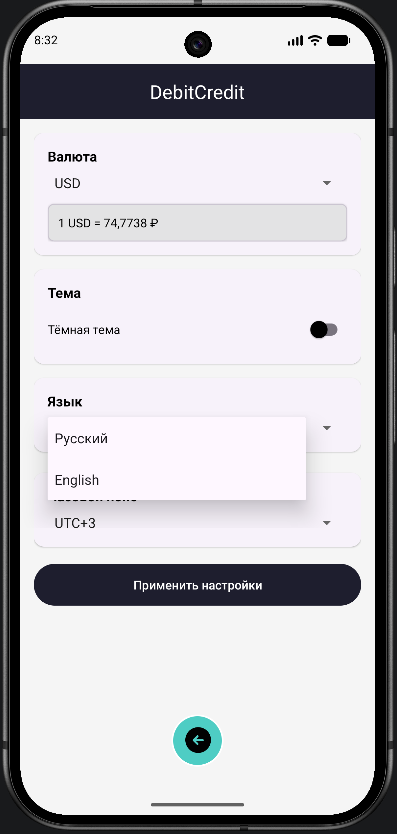
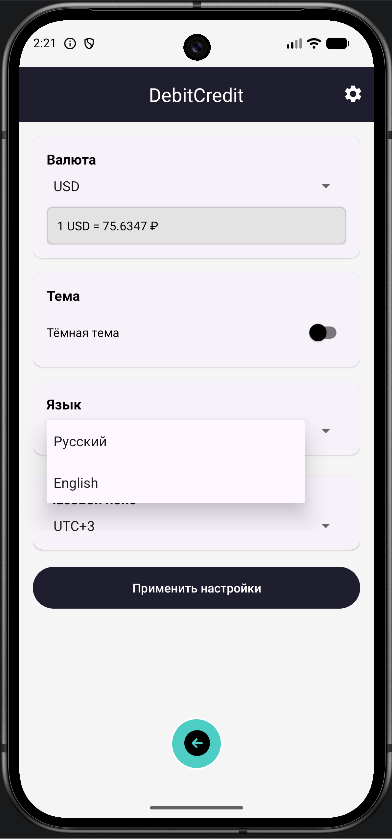
modified

diff --git a/app/src/main/java/ru/github/debitcredit/customview/StatsView.kt b/app/src/main/java/ru/github/debitcredit/customview/StatsView.kt
@@ -3,12 +3,7 @@ package ru.github.debitcredit.customview
 import android.animation.ValueAnimator
 import android.content.Context
 import android.content.res.Configuration
-import android.graphics.Canvas
-import android.graphics.Color
-import android.graphics.Paint
-import android.graphics.PointF
-import android.graphics.RectF
-import android.graphics.SweepGradient
+import android.graphics.*
 import android.util.AttributeSet
 import android.view.View
 import android.view.animation.LinearInterpolator
@@ -31,20 +26,16 @@ class StatsView @JvmOverloads constructor(
     private var progress = 0f
     private var valueAnimator: ValueAnimator? = null
     private var currentRotation = 0f
-    private val dotPaint = Paint(Paint.ANTI_ALIAS_FLAG).apply {
-        style = Paint.Style.FILL
-    }
 
-    // Флаг, определяющий режим отображения (большой или маленький)
+    var showPercentage = false
+
     var isSmallMode = false
         set(value) {
             field = value
             if (value) {
-                // Для маленького режима делаем линии тоньше и шрифт меньше
                 lineWidth = dp(12f).toFloat()
                 fontSize = dp(16f).toFloat()
             } else {
-                // Для большого режима возвращаем нормальные размеры
                 lineWidth = dp(24f).toFloat()
                 fontSize = dp(32f).toFloat()
             }
@@ -86,19 +77,12 @@ class StatsView @JvmOverloads constructor(
     }
 
     private fun getTextColorFromTheme(): Int {
-        // Определяем, темная тема или светлая
         val isNightMode = (resources.configuration.uiMode and Configuration.UI_MODE_NIGHT_MASK) == Configuration.UI_MODE_NIGHT_YES
-
-        return if (isNightMode) {
-            Color.WHITE
-        } else {
-            Color.BLACK
-        }
+        return if (isNightMode) Color.WHITE else Color.BLACK
     }
 
     override fun onConfigurationChanged(newConfig: Configuration?) {
         super.onConfigurationChanged(newConfig)
-        // Обновляем цвет текста при смене темы
         textPaint.color = getTextColorFromTheme()
         invalidate()
     }
@@ -123,7 +107,7 @@ class StatsView @JvmOverloads constructor(
         var startAngle = -90f + currentRotation
 
         // Рисуем сегменты
-        for ((index, category) in data.withIndex()) {
+        for ((_, category) in data.withIndex()) {
             val sweepAngle = 360f * (category.amount / total) * progress
 
             val shader = SweepGradient(
@@ -139,54 +123,74 @@ class StatsView @JvmOverloads constructor(
             startAngle += sweepAngle
         }
 
-        if (isSmallMode) {
-            // Маленький режим: показываем сумму под графиком
-            val totalText = String.format(Locale.US,"%.0f", total)
-
-            // Текст суммы (крупнее)
-            textPaint.textSize = fontSize
-            canvas.drawText("$totalText ₽", center.x, center.y + fontSize / 3, textPaint)
-
-            // Рисуем точку-индикатор сверху (уменьшенную)
-            if (data.isNotEmpty()) {
-                val dotRadius = lineWidth * 0.5f
-                val dotAngle = Math.toRadians((-90f + currentRotation).toDouble())
-                val dotX = center.x + radius * cos(dotAngle).toFloat()
-                val dotY = center.y + radius * sin(dotAngle).toFloat()
-
-                dotPaint.color = data.firstOrNull()?.color ?: Color.WHITE
-                canvas.drawCircle(dotX, dotY, dotRadius, dotPaint)
-            }
+        // Рисуем текст в центре
+        if (showPercentage) {
+            drawPercentageText(canvas)
         } else {
-            // Большой режим: показываем сумму в центре
-            val totalText = String.format(Locale.US,"%.0f", total)
-            textPaint.textSize = fontSize
-            canvas.drawText("$totalText ₽", center.x, center.y + fontSize / 4, textPaint)
+            drawTotalSum(canvas, total)
+        }
 
-            // Рисуем точку-индикатор сверху (нормальную)
-            if (data.isNotEmpty()) {
-                val dotRadius = lineWidth * 0.5f
-                val dotAngle = Math.toRadians((-90f + currentRotation).toDouble())
-                val dotX = center.x + radius * cos(dotAngle).toFloat()
-                val dotY = center.y + radius * sin(dotAngle).toFloat()
+        drawIndicatorDot(canvas)
+    }
 
-                dotPaint.color = data.firstOrNull()?.color ?: Color.WHITE
-                canvas.drawCircle(dotX, dotY, dotRadius, dotPaint)
+    private fun drawTotalSum(canvas: Canvas, total: Float) {
+        textPaint.textSize = fontSize * 0.8f
+        textPaint.color = getTextColorFromTheme()
+        textPaint.textAlign = Paint.Align.CENTER
+
+        val totalText = String.format(Locale.US,"%.0f", total)
+        canvas.drawText("$totalText ₽", center.x, center.y + fontSize * 0.3f, textPaint)
+    }
+
+    private fun drawPercentageText(canvas: Canvas) {
+        // Находим данные о потраченном (spent)
+        val spentData = data.firstOrNull { it.name == "spent" }
+        val percentage = if (spentData != null) {
+            // Процент - это значение spent, так как мы передаем его в amount
+            spentData.amount.toInt()
+        } else {
+            // Если данных нет, вычисляем из первого элемента
+            val total = data.sumOf { it.amount.toDouble() }.toFloat()
+            if (total > 0) {
+                (data.first().amount / total * 100).toInt()
+            } else {
+                0
             }
+        }
+
+        // Показываем процент
+        textPaint.textSize = fontSize * 0.9f
+        textPaint.color = getTextColorFromTheme()
+        textPaint.textAlign = Paint.Align.CENTER
+
+        val percentText = "$percentage%"
+        canvas.drawText(percentText, center.x, center.y + fontSize * 0.3f, textPaint)
+    }
+
+    private fun drawIndicatorDot(canvas: Canvas) {
+        if (data.isNotEmpty()) {
+            val dotRadius = lineWidth * 0.5f
+            val dotAngle = Math.toRadians((-90f + currentRotation).toDouble())
+            val dotX = center.x + radius * cos(dotAngle).toFloat()
+            val dotY = center.y + radius * sin(dotAngle).toFloat()
+
+            val dotPaint = Paint(Paint.ANTI_ALIAS_FLAG).apply {
+                color = data.firstOrNull()?.color ?: Color.WHITE
+                style = Paint.Style.FILL
+            }
+            canvas.drawCircle(dotX, dotY, dotRadius, dotPaint)
         }
     }
 
     fun startAnimation() {
-        // Полностью останавливаем предыдущую анимацию
         valueAnimator?.cancel()
         valueAnimator = null
 
         if (visibility != VISIBLE) return
 
-        // Сбрасываем прогресс перед началом
         progress = 0f
         currentRotation = 0f
-        invalidate()  // Принудительно перерисовываем сброшенное состояние
+        invalidate()
 
         valueAnimator = ValueAnimator.ofFloat(0f, 1f).apply {
             duration = 1500

diff --git a/app/src/main/java/ru/github/debitcredit/presentation/ui/main/MainFragment.kt b/app/src/main/java/ru/github/debitcredit/presentation/ui/main/MainFragment.kt
@@ -39,28 +39,6 @@ class MainFragment : Fragment() {
     private lateinit var incomeButton: ImageButton
     private lateinit var balanceTextView: TextView
 
-//    override fun onCreate(savedInstanceState: Bundle?) {
-//        super.onCreate(savedInstanceState)
-//        setHasOptionsMenu(true)
-//    }
-//
-//    @Suppress("DEPRECATION")
-//    override fun onCreateOptionsMenu(menu: Menu, inflater: MenuInflater) {
-//        inflater.inflate(R.menu.main_menu, menu)
-//        super.onCreateOptionsMenu(menu, inflater)
-//    }
-//
-//    @Suppress("DEPRECATION")
-//    override fun onOptionsItemSelected(item: MenuItem): Boolean {
-//        return when (item.itemId) {
-//            R.id.action_settings -> {
-//                findNavController().navigate(R.id.settingsFragment)
-//                true
-//            }
-//            else -> super.onOptionsItemSelected(item)
-//        }
-//    }
-
     override fun onCreateView(
         inflater: LayoutInflater,
         container: ViewGroup?,
@@ -185,6 +163,7 @@ class MainFragment : Fragment() {
         }
 
         statsView.isSmallMode = false
+        statsView.showPercentage = false
         statsView.data = statsData
     }
 

diff --git a/app/src/main/java/ru/github/debitcredit/presentation/ui/statistics/StatisticsFragment.kt b/app/src/main/java/ru/github/debitcredit/presentation/ui/statistics/StatisticsFragment.kt
@@ -148,7 +148,7 @@ class StatisticsFragment : Fragment() {
             StatsView.CategoryData(
                 name = getString(R.string.spent),
                 amount = percentage,
-                color = "#FF6B6B".toColorInt()
+                color = "#d91023".toColorInt()
             ),
             StatsView.CategoryData(
                 name = getString(R.string.remaining),
@@ -158,6 +158,7 @@ class StatisticsFragment : Fragment() {
         )
 
         statsView.isSmallMode = false
+        statsView.showPercentage = true
         statsView.data = statsData
     }
 